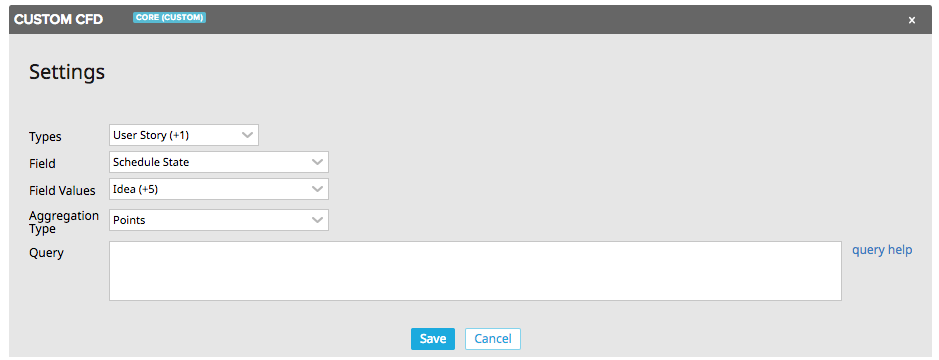
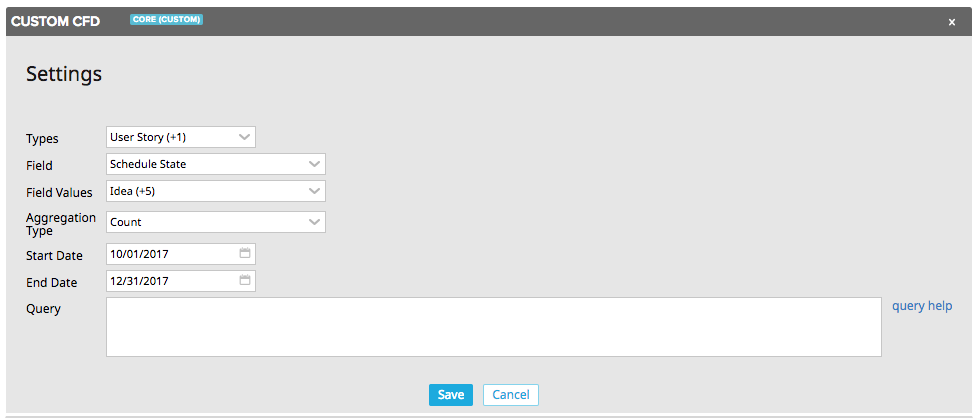
Add start/end date settings

Changed region(s): [[0.0, 0.0, 1.0, 1.0]]

diff --git a/deploy/App-external.html b/deploy/App-external.html
@@ -7,10 +7,10 @@
 
     <script type="text/javascript">
         Rally.onReady(function () {
-                Ext.define("Settings",{singleton:!0,getSettingsFields:function(context){return[{name:"types",xtype:"rallycombobox",plugins:["rallyfieldvalidationui"],allowBlank:!1,editable:!1,autoSelect:!1,validateOnChange:!0,validateOnBlur:!0,multiSelect:!0,shouldRespondToScopeChange:!0,context:context,storeConfig:{model:"TypeDefinition",sorters:[{property:"DisplayName"}],fetch:["DisplayName","TypePath"],filters:[{property:"UserListable",operator:"=",value:!0},{property:"Creatable",operator:"=",value:!0}],autoLoad:!1,remoteSort:!1,sortOnLoad:!0,remoteFilter:!0},displayField:"DisplayName",valueField:"TypePath",listeners:{change:function(combo){combo.fireEvent("typeselected",combo.getValue(),combo.context)},ready:function(combo){combo.store.filterBy(function(record){return Rally.data.ModelTypes.isArtifact(record.get("TypePath"))}),!combo.getValue().length&&combo.originalValue&&(combo.setValue(combo.originalValue.split(",")),delete combo.originalValue)}},bubbleEvents:["typeselected"],readyEvent:"ready",handlesEvents:{projectscopechanged:function(context){this.refreshWithNewContext(context)}}},{name:"aggregationField",xtype:"rallycombobox",plugins:["rallyfieldvalidationui"],fieldLabel:"Field",readyEvent:"ready",allowBlank:!1,validateOnChange:!0,validateOnBlur:!0,width:300,bubbleEvents:["fieldselected"],displayField:"displayName",valueField:"name",store:{fields:["displayName","name"],data:[]},handlesEvents:{typeselected:function(types,context){types.length?Rally.data.wsapi.ModelFactory.getModels({types:types,context:context.getDataContext(),success:function(models){var allModels=_.values(models),model=allModels[0],fields=model.getFields(),validFields=_.filter(fields,function(field){var hasAllowedValues=field.hasAllowedValues(),existsOnAllTypes=1===types.length||_.every(allModels,function(model){return model.hasField(field.name)}),isSupportedType=!field.isObject()&&!field.isCollection(),isWritable=!field.readOnly,isVisible=!field.hidden;return hasAllowedValues&&existsOnAllTypes&&isSupportedType&&isWritable&&isVisible});this.store.loadRawData(validFields),this.fireEvent("ready",this)},scope:this}):(this.store.removeAll(),this.reset())}},listeners:{ready:function(combo){var values=combo.getStore().getRange();values.length&&!combo.getValue()&&(combo.setValue(combo.originalValue||values[0].name),delete combo.originalValue)},change:function(combo){combo.fireEvent("fieldselected",combo.getRecord())}}},{name:"aggregationFieldValues",xtype:"rallycombobox",multiSelect:!0,plugins:["rallyfieldvalidationui"],fieldLabel:"Field Values",readyEvent:"ready",allowBlank:!1,validateOnChange:!0,validateOnBlur:!0,width:300,displayField:"StringValue",valueField:"StringValue",store:{fields:["StringValue"],data:[]},handlesEvents:{fieldselected:function(field){field?field.raw.getAllowedValueStore().load().then({success:function(values){var validValues=_.filter(values,function(value){return value.get("StringValue")});this.setValue([]),this.store.loadRawData(_.pluck(validValues,"raw")),this.fireEvent("ready",this)},scope:this}):(this.store.removeAll(),this.reset())}},listeners:{ready:function(combo){combo.getStore().getRange().length&&!combo.getValue().length&&combo.originalValue&&(combo.setValue(combo.originalValue.split(",")),delete combo.originalValue)}}},{name:"aggregationType",xtype:"rallycombobox",plugins:["rallyfieldvalidationui"],fieldLabel:"Aggregation Type",displayField:"name",valueField:"value",editable:!1,allowBlank:!1,width:300,store:{fields:["name","value"],data:[{name:"Count",value:"count"},{name:"Points",value:"points"}]},lastQuery:""},{type:"query"}]}});
+                Ext.define("Settings",{singleton:!0,getSettingsFields:function(context){return[{name:"types",xtype:"rallycombobox",plugins:["rallyfieldvalidationui"],allowBlank:!1,editable:!1,autoSelect:!1,validateOnChange:!0,validateOnBlur:!0,multiSelect:!0,shouldRespondToScopeChange:!0,context:context,storeConfig:{model:"TypeDefinition",sorters:[{property:"DisplayName"}],fetch:["DisplayName","TypePath"],filters:[{property:"UserListable",operator:"=",value:!0},{property:"Creatable",operator:"=",value:!0}],autoLoad:!1,remoteSort:!1,sortOnLoad:!0,remoteFilter:!0},displayField:"DisplayName",valueField:"TypePath",listeners:{change:function(combo){combo.fireEvent("typeselected",combo.getValue(),combo.context)},ready:function(combo){combo.store.filterBy(function(record){return Rally.data.ModelTypes.isArtifact(record.get("TypePath"))}),!combo.getValue().length&&combo.originalValue&&(combo.setValue(combo.originalValue.split(",")),delete combo.originalValue)}},bubbleEvents:["typeselected"],readyEvent:"ready",handlesEvents:{projectscopechanged:function(context){this.refreshWithNewContext(context)}}},{name:"aggregationField",xtype:"rallycombobox",plugins:["rallyfieldvalidationui"],fieldLabel:"Field",readyEvent:"ready",allowBlank:!1,validateOnChange:!0,validateOnBlur:!0,width:300,bubbleEvents:["fieldselected"],displayField:"displayName",valueField:"name",store:{fields:["displayName","name"],data:[]},handlesEvents:{typeselected:function(types,context){types.length?Rally.data.wsapi.ModelFactory.getModels({types:types,context:context.getDataContext(),success:function(models){var allModels=_.values(models),model=allModels[0],fields=model.getFields(),validFields=_.filter(fields,function(field){var hasAllowedValues=field.hasAllowedValues(),existsOnAllTypes=1===types.length||_.every(allModels,function(model){return model.hasField(field.name)}),isSupportedType=!field.isObject()&&!field.isCollection(),isWritable=!field.readOnly,isVisible=!field.hidden;return hasAllowedValues&&existsOnAllTypes&&isSupportedType&&isWritable&&isVisible});this.store.loadRawData(validFields),this.fireEvent("ready",this)},scope:this}):(this.store.removeAll(),this.reset())}},listeners:{ready:function(combo){var values=combo.getStore().getRange();values.length&&!combo.getValue()&&(combo.setValue(combo.originalValue||values[0].name),delete combo.originalValue)},change:function(combo){combo.fireEvent("fieldselected",combo.getRecord())}}},{name:"aggregationFieldValues",xtype:"rallycombobox",multiSelect:!0,plugins:["rallyfieldvalidationui"],fieldLabel:"Field Values",readyEvent:"ready",allowBlank:!1,validateOnChange:!0,validateOnBlur:!0,width:300,displayField:"StringValue",valueField:"StringValue",store:{fields:["StringValue"],data:[]},handlesEvents:{fieldselected:function(field){field?field.raw.getAllowedValueStore().load().then({success:function(values){var validValues=_.filter(values,function(value){return value.get("StringValue")});this.setValue([]),this.store.loadRawData(_.pluck(validValues,"raw")),this.fireEvent("ready",this)},scope:this}):(this.store.removeAll(),this.reset())}},listeners:{ready:function(combo){combo.getStore().getRange().length&&!combo.getValue().length&&combo.originalValue&&(combo.setValue(combo.originalValue.split(",")),delete combo.originalValue)}}},{name:"aggregationType",xtype:"rallycombobox",plugins:["rallyfieldvalidationui"],fieldLabel:"Aggregation Type",displayField:"name",valueField:"value",editable:!1,allowBlank:!1,width:300,store:{fields:["name","value"],data:[{name:"Count",value:"count"},{name:"Points",value:"points"}]},lastQuery:""},{name:"startDate",xtype:"rallydatefield",plugins:["rallyfieldvalidationui"],allowBlank:!1,fieldLabel:"Start Date",getSubmitValue:function(){var value=Rally.util.DateTime.toIsoString(this.getValue());return value.split("T")[0]}},{name:"endDate",xtype:"rallydatefield",plugins:["rallyfieldvalidationui"],allowBlank:!1,fieldLabel:"End Date",getSubmitValue:function(){var value=Rally.util.DateTime.toIsoString(this.getValue());return value.split("T")[0]}},{type:"query"}]}});
                 Ext.define("CfdCalculator",{extend:"Rally.data.lookback.calculator.TimeSeriesCalculator",config:{stateFieldValues:[],stateFieldName:"",pointsOrCount:"points"},constructor:function(config){config=config||{},this.mergeConfig(config),this.callParent([this.config])},getMetrics:function(){return _.map(this.stateFieldValues,function(stateFieldValue){return{field:"PlanEstimate",as:stateFieldValue,f:"points"===this.pointsOrCount?"filteredSum":"filteredCount",filterField:this.stateFieldName,filterValues:[stateFieldValue],display:"area"}},this)}});
                 Ext.define("CfdChart",{xtype:"cfdchart",extend:"Rally.ui.chart.Chart",requires:["CfdCalculator"],config:{calculatorType:"CfdCalculator",chartColors:["#FF8200","#F6A900","#FAD200","#8DC63F","#1E7C00","#337EC6","#005EB8","#7832A5","#DA1884","#C0C0C0"],chartConfig:{chart:{type:"area"},title:{text:""},subtitle:{text:""},xAxis:{tickmarkPlacement:"on",tickInterval:15,title:{text:"Date"}},yAxis:[{title:{text:""}}],plotOptions:{series:{marker:{enabled:!1}},area:{stacking:"normal"}}}},constructor:function(config){config=config||{},this.mergeConfig(config),this.chartConfig.yAxis[0].title.text="points"===this.pointsOrCount?this.getContext().getWorkspace().WorkspaceConfiguration.ReleaseEstimateUnitName||"Points":"Count",this.callParent([this.config])}});
-                Ext.define("CustomCfdApp",{extend:"Rally.app.App",componentCls:"app",layout:{type:"vbox",align:"stretch"},items:[{xtype:"rallyleftright",itemId:"header",height:30},{xtype:"container",itemId:"filterContainer"},{xtype:"container",itemId:"chartContainer",layout:"fit",flex:1}],config:{defaultSettings:{types:"HierarchicalRequirement,Defect",aggregationField:"ScheduleState",aggregationFieldValues:"Idea,Defined,In-Progress,Completed,Accepted,Released",aggregationType:"points",query:""}},getSettingsFields:function(){return Settings.getSettingsFields(this.getContext())},launch:function(){Rally.data.wsapi.ModelFactory.getModels({types:this._getTypesSetting(),context:this.getContext().getDataContext()}).then({success:this._onModelsLoaded,scope:this})},_onModelsLoaded:function(models){this.models=_.values(models);var blackListFields=[],whiteListFields=["Milestones","Tags"],modelNames=this._getTypesSetting();this.down("#header").getLeft().add({xtype:"rallyinlinefiltercontrol",context:this.getContext(),height:26,align:"left",inlineFilterButtonConfig:{stateful:!0,stateId:this.getContext().getScopedStateId("inline-filter"),context:this.getContext(),modelNames:modelNames,filterChildren:!1,inlineFilterPanelConfig:{quickFilterPanelConfig:{defaultFields:["ModelType","ArtifactSearch"],addQuickFilterConfig:{blackListFields:blackListFields,whiteListFields:whiteListFields}},advancedFilterPanelConfig:{advancedFilterRowsConfig:{propertyFieldConfig:{blackListFields:blackListFields,whiteListFields:whiteListFields}}}},listeners:{inlinefilterchange:this._onFilterChange,inlinefilterready:this._onFilterReady,scope:this}}}),this.down("#header").getRight().add({xtype:"rallybutton",cls:"secondary rly-small",margin:"3px 20px 0 0",frame:!1,iconCls:"icon-export",toolTipConfig:{html:"Export",anchor:"top",hideDelay:0},listeners:{click:this._onExportClick,scope:this}})},_onFilterReady:function(inlineFilterPanel){this.down("#filterContainer").add(inlineFilterPanel)},_onFilterChange:function(inlineFilterButton){this.filterInfo=inlineFilterButton.getTypesAndFilters(),this._loadData()},_loadData:function(){this.down("#chartContainer").removeAll(!0),this.down("#chartContainer").setLoading(!0),Ext.create("Rally.data.wsapi.artifact.Store",{autoLoad:!0,context:this.getContext().getDataContext(),limit:1/0,pageSize:2e3,models:this.filterInfo.types,filters:this.filterInfo.filters.concat(this._getFilters()),fetch:["ObjectID"],listeners:{load:this._onWsapiDataRetrieved,scope:this}})},_onWsapiDataRetrieved:function(store){var oids=_.map(store.getRange(),function(record){return record.getId()});this._addChart(oids)},_onExportClick:function(){var link=document.createElement("a"),chartData=this.down("rallychart").chartData,data=_.reduce(chartData.categories,function(accum,category,i){var row=[category];return _.each(chartData.series,function(series){row.push(series.data[i])}),accum.push(row.join(",")),accum},[["Date"].concat(_.pluck(chartData.series,"name")).join(",")]);link.setAttribute("href","data:text/csv;charset=utf-8,"+encodeURI(data.join("\n"))),link.setAttribute("download","cfd.csv"),link.click()},_addChart:function(oids){this.down("#chartContainer").add({xtype:"cfdchart",loadMask:!1,pointsOrCount:this.getSetting("aggregationType"),storeType:"Rally.data.lookback.SnapshotStore",context:this.getContext(),storeConfig:{find:{_TypeHierarchy:{$in:this._getTypesSetting()},ObjectID:{$in:oids},Children:null},fetch:["_ValidFrom","_ValidTo",this.getSetting("aggregationField"),"PlanEstimate"],hydrate:[this.getSetting("aggregationField")],compress:!0,useHttpPost:!0,listeners:{load:function(){this.down("#chartContainer").setLoading(!1)},scope:this}},calculatorConfig:{stateFieldName:this.getSetting("aggregationField"),stateFieldValues:this.getSetting("aggregationFieldValues").split(","),pointsOrCount:this.getSetting("aggregationType")}})},_getTypesSetting:function(){return this.getSetting("types").split(",")},onTimeboxScopeChange:function(){this.callParent(arguments),this._loadData(this.down("#filterButton").getTypesAndFilters())},_getFilters:function(){var queries=[],timeboxScope=this.getContext().getTimeboxScope();return this.getSetting("query")&&queries.push(Rally.data.QueryFilter.fromQueryString(this.getSetting("query"))),timeboxScope&&_.every(this.models,timeboxScope.isApplicable,timeboxScope)&&queries.push(timeboxScope.getQueryFilter()),queries}});
+                Ext.define("CustomCfdApp",{extend:"Rally.app.App",componentCls:"app",layout:{type:"vbox",align:"stretch"},items:[{xtype:"rallyleftright",itemId:"header",height:30},{xtype:"container",itemId:"filterContainer"},{xtype:"container",itemId:"chartContainer",layout:"fit",flex:1}],config:{defaultSettings:{types:"HierarchicalRequirement,Defect",aggregationField:"ScheduleState",aggregationFieldValues:"Idea,Defined,In-Progress,Completed,Accepted,Released",aggregationType:"points",startDate:"",endDate:"",query:""}},getSettingsFields:function(){return Settings.getSettingsFields(this.getContext())},launch:function(){Rally.data.wsapi.ModelFactory.getModels({types:this._getTypesSetting(),context:this.getContext().getDataContext()}).then({success:this._onModelsLoaded,scope:this})},_onModelsLoaded:function(models){this.models=_.values(models);var blackListFields=[],whiteListFields=["Milestones","Tags"],modelNames=this._getTypesSetting();this.down("#header").getLeft().add({xtype:"rallyinlinefiltercontrol",context:this.getContext(),height:26,align:"left",inlineFilterButtonConfig:{stateful:!0,stateId:this.getContext().getScopedStateId("inline-filter"),context:this.getContext(),modelNames:modelNames,filterChildren:!1,inlineFilterPanelConfig:{quickFilterPanelConfig:{defaultFields:["ModelType","ArtifactSearch"],addQuickFilterConfig:{blackListFields:blackListFields,whiteListFields:whiteListFields}},advancedFilterPanelConfig:{advancedFilterRowsConfig:{propertyFieldConfig:{blackListFields:blackListFields,whiteListFields:whiteListFields}}}},listeners:{inlinefilterchange:this._onFilterChange,inlinefilterready:this._onFilterReady,scope:this}}}),this.down("#header").getRight().add({xtype:"rallybutton",cls:"secondary rly-small",margin:"3px 20px 0 0",frame:!1,iconCls:"icon-export",toolTipConfig:{html:"Export",anchor:"top",hideDelay:0},listeners:{click:this._onExportClick,scope:this}})},_onFilterReady:function(inlineFilterPanel){this.down("#filterContainer").add(inlineFilterPanel)},_onFilterChange:function(inlineFilterButton){this.filterInfo=inlineFilterButton.getTypesAndFilters(),this._loadData()},_loadData:function(){this.down("#chartContainer").removeAll(!0),this.down("#chartContainer").setLoading(!0),Ext.create("Rally.data.wsapi.artifact.Store",{autoLoad:!0,context:this.getContext().getDataContext(),limit:1/0,pageSize:2e3,models:this.filterInfo.types,filters:this.filterInfo.filters.concat(this._getFilters()),fetch:["ObjectID"],listeners:{load:this._onWsapiDataRetrieved,scope:this}})},_onWsapiDataRetrieved:function(store){var oids=_.map(store.getRange(),function(record){return record.getId()});this._addChart(oids)},_onExportClick:function(){var link=document.createElement("a"),chartData=this.down("rallychart").chartData,data=_.reduce(chartData.categories,function(accum,category,i){var row=[category];return _.each(chartData.series,function(series){row.push(series.data[i])}),accum.push(row.join(",")),accum},[["Date"].concat(_.pluck(chartData.series,"name")).join(",")]);link.setAttribute("href","data:text/csv;charset=utf-8,"+encodeURI(data.join("\n"))),link.setAttribute("download","cfd.csv"),link.click()},_addChart:function(oids){var startDate=this.getSetting("startDate"),endDate=this.getSetting("endDate");this.down("#chartContainer").add({xtype:"cfdchart",loadMask:!1,pointsOrCount:this.getSetting("aggregationType"),storeType:"Rally.data.lookback.SnapshotStore",context:this.getContext(),storeConfig:{find:{_TypeHierarchy:{$in:this._getTypesSetting()},ObjectID:{$in:oids},Children:null},fetch:["_ValidFrom","_ValidTo",this.getSetting("aggregationField"),"PlanEstimate"],hydrate:[this.getSetting("aggregationField")],compress:!0,useHttpPost:!0,listeners:{load:function(){this.down("#chartContainer").setLoading(!1)},scope:this}},calculatorConfig:{stateFieldName:this.getSetting("aggregationField"),stateFieldValues:this.getSetting("aggregationFieldValues").split(","),pointsOrCount:this.getSetting("aggregationType"),startDate:moment(startDate||new Date).toDate(),endDate:moment(endDate||new Date).toDate()}})},_getTypesSetting:function(){return this.getSetting("types").split(",")},onTimeboxScopeChange:function(){this.callParent(arguments),this._loadData(this.down("#filterButton").getTypesAndFilters())},_getFilters:function(){var queries=[],timeboxScope=this.getContext().getTimeboxScope();return this.getSetting("query")&&queries.push(Rally.data.QueryFilter.fromQueryString(this.getSetting("query"))),timeboxScope&&_.every(this.models,timeboxScope.isApplicable,timeboxScope)&&queries.push(timeboxScope.getQueryFilter()),queries}});
 
             Rally.launchApp('CustomCfdApp', {
                 name:"CustomCfd",

diff --git a/deploy/App.html b/deploy/App.html
@@ -7,10 +7,10 @@
 
     <script type="text/javascript">
         Rally.onReady(function () {
-                Ext.define("Settings",{singleton:!0,getSettingsFields:function(context){return[{name:"types",xtype:"rallycombobox",plugins:["rallyfieldvalidationui"],allowBlank:!1,editable:!1,autoSelect:!1,validateOnChange:!0,validateOnBlur:!0,multiSelect:!0,shouldRespondToScopeChange:!0,context:context,storeConfig:{model:"TypeDefinition",sorters:[{property:"DisplayName"}],fetch:["DisplayName","TypePath"],filters:[{property:"UserListable",operator:"=",value:!0},{property:"Creatable",operator:"=",value:!0}],autoLoad:!1,remoteSort:!1,sortOnLoad:!0,remoteFilter:!0},displayField:"DisplayName",valueField:"TypePath",listeners:{change:function(combo){combo.fireEvent("typeselected",combo.getValue(),combo.context)},ready:function(combo){combo.store.filterBy(function(record){return Rally.data.ModelTypes.isArtifact(record.get("TypePath"))}),!combo.getValue().length&&combo.originalValue&&(combo.setValue(combo.originalValue.split(",")),delete combo.originalValue)}},bubbleEvents:["typeselected"],readyEvent:"ready",handlesEvents:{projectscopechanged:function(context){this.refreshWithNewContext(context)}}},{name:"aggregationField",xtype:"rallycombobox",plugins:["rallyfieldvalidationui"],fieldLabel:"Field",readyEvent:"ready",allowBlank:!1,validateOnChange:!0,validateOnBlur:!0,width:300,bubbleEvents:["fieldselected"],displayField:"displayName",valueField:"name",store:{fields:["displayName","name"],data:[]},handlesEvents:{typeselected:function(types,context){types.length?Rally.data.wsapi.ModelFactory.getModels({types:types,context:context.getDataContext(),success:function(models){var allModels=_.values(models),model=allModels[0],fields=model.getFields(),validFields=_.filter(fields,function(field){var hasAllowedValues=field.hasAllowedValues(),existsOnAllTypes=1===types.length||_.every(allModels,function(model){return model.hasField(field.name)}),isSupportedType=!field.isObject()&&!field.isCollection(),isWritable=!field.readOnly,isVisible=!field.hidden;return hasAllowedValues&&existsOnAllTypes&&isSupportedType&&isWritable&&isVisible});this.store.loadRawData(validFields),this.fireEvent("ready",this)},scope:this}):(this.store.removeAll(),this.reset())}},listeners:{ready:function(combo){var values=combo.getStore().getRange();values.length&&!combo.getValue()&&(combo.setValue(combo.originalValue||values[0].name),delete combo.originalValue)},change:function(combo){combo.fireEvent("fieldselected",combo.getRecord())}}},{name:"aggregationFieldValues",xtype:"rallycombobox",multiSelect:!0,plugins:["rallyfieldvalidationui"],fieldLabel:"Field Values",readyEvent:"ready",allowBlank:!1,validateOnChange:!0,validateOnBlur:!0,width:300,displayField:"StringValue",valueField:"StringValue",store:{fields:["StringValue"],data:[]},handlesEvents:{fieldselected:function(field){field?field.raw.getAllowedValueStore().load().then({success:function(values){var validValues=_.filter(values,function(value){return value.get("StringValue")});this.setValue([]),this.store.loadRawData(_.pluck(validValues,"raw")),this.fireEvent("ready",this)},scope:this}):(this.store.removeAll(),this.reset())}},listeners:{ready:function(combo){combo.getStore().getRange().length&&!combo.getValue().length&&combo.originalValue&&(combo.setValue(combo.originalValue.split(",")),delete combo.originalValue)}}},{name:"aggregationType",xtype:"rallycombobox",plugins:["rallyfieldvalidationui"],fieldLabel:"Aggregation Type",displayField:"name",valueField:"value",editable:!1,allowBlank:!1,width:300,store:{fields:["name","value"],data:[{name:"Count",value:"count"},{name:"Points",value:"points"}]},lastQuery:""},{type:"query"}]}});
+                Ext.define("Settings",{singleton:!0,getSettingsFields:function(context){return[{name:"types",xtype:"rallycombobox",plugins:["rallyfieldvalidationui"],allowBlank:!1,editable:!1,autoSelect:!1,validateOnChange:!0,validateOnBlur:!0,multiSelect:!0,shouldRespondToScopeChange:!0,context:context,storeConfig:{model:"TypeDefinition",sorters:[{property:"DisplayName"}],fetch:["DisplayName","TypePath"],filters:[{property:"UserListable",operator:"=",value:!0},{property:"Creatable",operator:"=",value:!0}],autoLoad:!1,remoteSort:!1,sortOnLoad:!0,remoteFilter:!0},displayField:"DisplayName",valueField:"TypePath",listeners:{change:function(combo){combo.fireEvent("typeselected",combo.getValue(),combo.context)},ready:function(combo){combo.store.filterBy(function(record){return Rally.data.ModelTypes.isArtifact(record.get("TypePath"))}),!combo.getValue().length&&combo.originalValue&&(combo.setValue(combo.originalValue.split(",")),delete combo.originalValue)}},bubbleEvents:["typeselected"],readyEvent:"ready",handlesEvents:{projectscopechanged:function(context){this.refreshWithNewContext(context)}}},{name:"aggregationField",xtype:"rallycombobox",plugins:["rallyfieldvalidationui"],fieldLabel:"Field",readyEvent:"ready",allowBlank:!1,validateOnChange:!0,validateOnBlur:!0,width:300,bubbleEvents:["fieldselected"],displayField:"displayName",valueField:"name",store:{fields:["displayName","name"],data:[]},handlesEvents:{typeselected:function(types,context){types.length?Rally.data.wsapi.ModelFactory.getModels({types:types,context:context.getDataContext(),success:function(models){var allModels=_.values(models),model=allModels[0],fields=model.getFields(),validFields=_.filter(fields,function(field){var hasAllowedValues=field.hasAllowedValues(),existsOnAllTypes=1===types.length||_.every(allModels,function(model){return model.hasField(field.name)}),isSupportedType=!field.isObject()&&!field.isCollection(),isWritable=!field.readOnly,isVisible=!field.hidden;return hasAllowedValues&&existsOnAllTypes&&isSupportedType&&isWritable&&isVisible});this.store.loadRawData(validFields),this.fireEvent("ready",this)},scope:this}):(this.store.removeAll(),this.reset())}},listeners:{ready:function(combo){var values=combo.getStore().getRange();values.length&&!combo.getValue()&&(combo.setValue(combo.originalValue||values[0].name),delete combo.originalValue)},change:function(combo){combo.fireEvent("fieldselected",combo.getRecord())}}},{name:"aggregationFieldValues",xtype:"rallycombobox",multiSelect:!0,plugins:["rallyfieldvalidationui"],fieldLabel:"Field Values",readyEvent:"ready",allowBlank:!1,validateOnChange:!0,validateOnBlur:!0,width:300,displayField:"StringValue",valueField:"StringValue",store:{fields:["StringValue"],data:[]},handlesEvents:{fieldselected:function(field){field?field.raw.getAllowedValueStore().load().then({success:function(values){var validValues=_.filter(values,function(value){return value.get("StringValue")});this.setValue([]),this.store.loadRawData(_.pluck(validValues,"raw")),this.fireEvent("ready",this)},scope:this}):(this.store.removeAll(),this.reset())}},listeners:{ready:function(combo){combo.getStore().getRange().length&&!combo.getValue().length&&combo.originalValue&&(combo.setValue(combo.originalValue.split(",")),delete combo.originalValue)}}},{name:"aggregationType",xtype:"rallycombobox",plugins:["rallyfieldvalidationui"],fieldLabel:"Aggregation Type",displayField:"name",valueField:"value",editable:!1,allowBlank:!1,width:300,store:{fields:["name","value"],data:[{name:"Count",value:"count"},{name:"Points",value:"points"}]},lastQuery:""},{name:"startDate",xtype:"rallydatefield",plugins:["rallyfieldvalidationui"],allowBlank:!1,fieldLabel:"Start Date",getSubmitValue:function(){var value=Rally.util.DateTime.toIsoString(this.getValue());return value.split("T")[0]}},{name:"endDate",xtype:"rallydatefield",plugins:["rallyfieldvalidationui"],allowBlank:!1,fieldLabel:"End Date",getSubmitValue:function(){var value=Rally.util.DateTime.toIsoString(this.getValue());return value.split("T")[0]}},{type:"query"}]}});
                 Ext.define("CfdCalculator",{extend:"Rally.data.lookback.calculator.TimeSeriesCalculator",config:{stateFieldValues:[],stateFieldName:"",pointsOrCount:"points"},constructor:function(config){config=config||{},this.mergeConfig(config),this.callParent([this.config])},getMetrics:function(){return _.map(this.stateFieldValues,function(stateFieldValue){return{field:"PlanEstimate",as:stateFieldValue,f:"points"===this.pointsOrCount?"filteredSum":"filteredCount",filterField:this.stateFieldName,filterValues:[stateFieldValue],display:"area"}},this)}});
                 Ext.define("CfdChart",{xtype:"cfdchart",extend:"Rally.ui.chart.Chart",requires:["CfdCalculator"],config:{calculatorType:"CfdCalculator",chartColors:["#FF8200","#F6A900","#FAD200","#8DC63F","#1E7C00","#337EC6","#005EB8","#7832A5","#DA1884","#C0C0C0"],chartConfig:{chart:{type:"area"},title:{text:""},subtitle:{text:""},xAxis:{tickmarkPlacement:"on",tickInterval:15,title:{text:"Date"}},yAxis:[{title:{text:""}}],plotOptions:{series:{marker:{enabled:!1}},area:{stacking:"normal"}}}},constructor:function(config){config=config||{},this.mergeConfig(config),this.chartConfig.yAxis[0].title.text="points"===this.pointsOrCount?this.getContext().getWorkspace().WorkspaceConfiguration.ReleaseEstimateUnitName||"Points":"Count",this.callParent([this.config])}});
-                Ext.define("CustomCfdApp",{extend:"Rally.app.App",componentCls:"app",layout:{type:"vbox",align:"stretch"},items:[{xtype:"rallyleftright",itemId:"header",height:30},{xtype:"container",itemId:"filterContainer"},{xtype:"container",itemId:"chartContainer",layout:"fit",flex:1}],config:{defaultSettings:{types:"HierarchicalRequirement,Defect",aggregationField:"ScheduleState",aggregationFieldValues:"Idea,Defined,In-Progress,Completed,Accepted,Released",aggregationType:"points",query:""}},getSettingsFields:function(){return Settings.getSettingsFields(this.getContext())},launch:function(){Rally.data.wsapi.ModelFactory.getModels({types:this._getTypesSetting(),context:this.getContext().getDataContext()}).then({success:this._onModelsLoaded,scope:this})},_onModelsLoaded:function(models){this.models=_.values(models);var blackListFields=[],whiteListFields=["Milestones","Tags"],modelNames=this._getTypesSetting();this.down("#header").getLeft().add({xtype:"rallyinlinefiltercontrol",context:this.getContext(),height:26,align:"left",inlineFilterButtonConfig:{stateful:!0,stateId:this.getContext().getScopedStateId("inline-filter"),context:this.getContext(),modelNames:modelNames,filterChildren:!1,inlineFilterPanelConfig:{quickFilterPanelConfig:{defaultFields:["ModelType","ArtifactSearch"],addQuickFilterConfig:{blackListFields:blackListFields,whiteListFields:whiteListFields}},advancedFilterPanelConfig:{advancedFilterRowsConfig:{propertyFieldConfig:{blackListFields:blackListFields,whiteListFields:whiteListFields}}}},listeners:{inlinefilterchange:this._onFilterChange,inlinefilterready:this._onFilterReady,scope:this}}}),this.down("#header").getRight().add({xtype:"rallybutton",cls:"secondary rly-small",margin:"3px 20px 0 0",frame:!1,iconCls:"icon-export",toolTipConfig:{html:"Export",anchor:"top",hideDelay:0},listeners:{click:this._onExportClick,scope:this}})},_onFilterReady:function(inlineFilterPanel){this.down("#filterContainer").add(inlineFilterPanel)},_onFilterChange:function(inlineFilterButton){this.filterInfo=inlineFilterButton.getTypesAndFilters(),this._loadData()},_loadData:function(){this.down("#chartContainer").removeAll(!0),this.down("#chartContainer").setLoading(!0),Ext.create("Rally.data.wsapi.artifact.Store",{autoLoad:!0,context:this.getContext().getDataContext(),limit:1/0,pageSize:2e3,models:this.filterInfo.types,filters:this.filterInfo.filters.concat(this._getFilters()),fetch:["ObjectID"],listeners:{load:this._onWsapiDataRetrieved,scope:this}})},_onWsapiDataRetrieved:function(store){var oids=_.map(store.getRange(),function(record){return record.getId()});this._addChart(oids)},_onExportClick:function(){var link=document.createElement("a"),chartData=this.down("rallychart").chartData,data=_.reduce(chartData.categories,function(accum,category,i){var row=[category];return _.each(chartData.series,function(series){row.push(series.data[i])}),accum.push(row.join(",")),accum},[["Date"].concat(_.pluck(chartData.series,"name")).join(",")]);link.setAttribute("href","data:text/csv;charset=utf-8,"+encodeURI(data.join("\n"))),link.setAttribute("download","cfd.csv"),link.click()},_addChart:function(oids){this.down("#chartContainer").add({xtype:"cfdchart",loadMask:!1,pointsOrCount:this.getSetting("aggregationType"),storeType:"Rally.data.lookback.SnapshotStore",context:this.getContext(),storeConfig:{find:{_TypeHierarchy:{$in:this._getTypesSetting()},ObjectID:{$in:oids},Children:null},fetch:["_ValidFrom","_ValidTo",this.getSetting("aggregationField"),"PlanEstimate"],hydrate:[this.getSetting("aggregationField")],compress:!0,useHttpPost:!0,listeners:{load:function(){this.down("#chartContainer").setLoading(!1)},scope:this}},calculatorConfig:{stateFieldName:this.getSetting("aggregationField"),stateFieldValues:this.getSetting("aggregationFieldValues").split(","),pointsOrCount:this.getSetting("aggregationType")}})},_getTypesSetting:function(){return this.getSetting("types").split(",")},onTimeboxScopeChange:function(){this.callParent(arguments),this._loadData(this.down("#filterButton").getTypesAndFilters())},_getFilters:function(){var queries=[],timeboxScope=this.getContext().getTimeboxScope();return this.getSetting("query")&&queries.push(Rally.data.QueryFilter.fromQueryString(this.getSetting("query"))),timeboxScope&&_.every(this.models,timeboxScope.isApplicable,timeboxScope)&&queries.push(timeboxScope.getQueryFilter()),queries}});
+                Ext.define("CustomCfdApp",{extend:"Rally.app.App",componentCls:"app",layout:{type:"vbox",align:"stretch"},items:[{xtype:"rallyleftright",itemId:"header",height:30},{xtype:"container",itemId:"filterContainer"},{xtype:"container",itemId:"chartContainer",layout:"fit",flex:1}],config:{defaultSettings:{types:"HierarchicalRequirement,Defect",aggregationField:"ScheduleState",aggregationFieldValues:"Idea,Defined,In-Progress,Completed,Accepted,Released",aggregationType:"points",startDate:"",endDate:"",query:""}},getSettingsFields:function(){return Settings.getSettingsFields(this.getContext())},launch:function(){Rally.data.wsapi.ModelFactory.getModels({types:this._getTypesSetting(),context:this.getContext().getDataContext()}).then({success:this._onModelsLoaded,scope:this})},_onModelsLoaded:function(models){this.models=_.values(models);var blackListFields=[],whiteListFields=["Milestones","Tags"],modelNames=this._getTypesSetting();this.down("#header").getLeft().add({xtype:"rallyinlinefiltercontrol",context:this.getContext(),height:26,align:"left",inlineFilterButtonConfig:{stateful:!0,stateId:this.getContext().getScopedStateId("inline-filter"),context:this.getContext(),modelNames:modelNames,filterChildren:!1,inlineFilterPanelConfig:{quickFilterPanelConfig:{defaultFields:["ModelType","ArtifactSearch"],addQuickFilterConfig:{blackListFields:blackListFields,whiteListFields:whiteListFields}},advancedFilterPanelConfig:{advancedFilterRowsConfig:{propertyFieldConfig:{blackListFields:blackListFields,whiteListFields:whiteListFields}}}},listeners:{inlinefilterchange:this._onFilterChange,inlinefilterready:this._onFilterReady,scope:this}}}),this.down("#header").getRight().add({xtype:"rallybutton",cls:"secondary rly-small",margin:"3px 20px 0 0",frame:!1,iconCls:"icon-export",toolTipConfig:{html:"Export",anchor:"top",hideDelay:0},listeners:{click:this._onExportClick,scope:this}})},_onFilterReady:function(inlineFilterPanel){this.down("#filterContainer").add(inlineFilterPanel)},_onFilterChange:function(inlineFilterButton){this.filterInfo=inlineFilterButton.getTypesAndFilters(),this._loadData()},_loadData:function(){this.down("#chartContainer").removeAll(!0),this.down("#chartContainer").setLoading(!0),Ext.create("Rally.data.wsapi.artifact.Store",{autoLoad:!0,context:this.getContext().getDataContext(),limit:1/0,pageSize:2e3,models:this.filterInfo.types,filters:this.filterInfo.filters.concat(this._getFilters()),fetch:["ObjectID"],listeners:{load:this._onWsapiDataRetrieved,scope:this}})},_onWsapiDataRetrieved:function(store){var oids=_.map(store.getRange(),function(record){return record.getId()});this._addChart(oids)},_onExportClick:function(){var link=document.createElement("a"),chartData=this.down("rallychart").chartData,data=_.reduce(chartData.categories,function(accum,category,i){var row=[category];return _.each(chartData.series,function(series){row.push(series.data[i])}),accum.push(row.join(",")),accum},[["Date"].concat(_.pluck(chartData.series,"name")).join(",")]);link.setAttribute("href","data:text/csv;charset=utf-8,"+encodeURI(data.join("\n"))),link.setAttribute("download","cfd.csv"),link.click()},_addChart:function(oids){var startDate=this.getSetting("startDate"),endDate=this.getSetting("endDate");this.down("#chartContainer").add({xtype:"cfdchart",loadMask:!1,pointsOrCount:this.getSetting("aggregationType"),storeType:"Rally.data.lookback.SnapshotStore",context:this.getContext(),storeConfig:{find:{_TypeHierarchy:{$in:this._getTypesSetting()},ObjectID:{$in:oids},Children:null},fetch:["_ValidFrom","_ValidTo",this.getSetting("aggregationField"),"PlanEstimate"],hydrate:[this.getSetting("aggregationField")],compress:!0,useHttpPost:!0,listeners:{load:function(){this.down("#chartContainer").setLoading(!1)},scope:this}},calculatorConfig:{stateFieldName:this.getSetting("aggregationField"),stateFieldValues:this.getSetting("aggregationFieldValues").split(","),pointsOrCount:this.getSetting("aggregationType"),startDate:moment(startDate||new Date).toDate(),endDate:moment(endDate||new Date).toDate()}})},_getTypesSetting:function(){return this.getSetting("types").split(",")},onTimeboxScopeChange:function(){this.callParent(arguments),this._loadData(this.down("#filterButton").getTypesAndFilters())},_getFilters:function(){var queries=[],timeboxScope=this.getContext().getTimeboxScope();return this.getSetting("query")&&queries.push(Rally.data.QueryFilter.fromQueryString(this.getSetting("query"))),timeboxScope&&_.every(this.models,timeboxScope.isApplicable,timeboxScope)&&queries.push(timeboxScope.getQueryFilter()),queries}});
 
             Rally.launchApp('CustomCfdApp', {
                 name:"CustomCfd",

diff --git a/deploy/App-uncompressed.html b/deploy/App-uncompressed.html
@@ -189,6 +189,28 @@
                 },
                 lastQuery: ''
             },
+            {
+                name: 'startDate',
+                xtype: 'rallydatefield',
+                plugins: ['rallyfieldvalidationui'],
+                allowBlank: false,
+                fieldLabel: 'Start Date',
+                getSubmitValue: function() {
+                    var value = Rally.util.DateTime.toIsoString(this.getValue());
+                    return value.split('T')[0];
+                }
+            },
+            {
+                name: 'endDate',
+                xtype: 'rallydatefield',
+                plugins: ['rallyfieldvalidationui'],
+                allowBlank: false,
+                fieldLabel: 'End Date',
+                getSubmitValue: function() {
+                    var value = Rally.util.DateTime.toIsoString(this.getValue());
+                    return value.split('T')[0];
+                }
+            },
             { type: 'query' }
         ];
     }
@@ -326,6 +348,8 @@
             aggregationField: 'ScheduleState',
             aggregationFieldValues: 'Idea,Defined,In-Progress,Completed,Accepted,Released',
             aggregationType: 'points',
+            startDate: '',
+            endDate: '',
             query: ''
         }
     },
@@ -456,6 +480,9 @@
     },
 
     _addChart: function (oids) {
+        var startDate = this.getSetting('startDate'),
+            endDate = this.getSetting('endDate');
+            
         this.down('#chartContainer').add({
             xtype: 'cfdchart',
             loadMask: false,
@@ -482,7 +509,9 @@
             calculatorConfig: {
                 stateFieldName: this.getSetting('aggregationField'),
                 stateFieldValues: this.getSetting('aggregationFieldValues').split(','),
-                pointsOrCount: this.getSetting('aggregationType')
+                pointsOrCount: this.getSetting('aggregationType'),
+                startDate: moment(startDate || new Date()).toDate(),
+                endDate: moment(endDate || new Date()).toDate(),
             }
         });
     },

diff --git a/CustomCfdApp.js b/CustomCfdApp.js
@@ -31,6 +31,8 @@ Ext.define('CustomCfdApp', {
             aggregationField: 'ScheduleState',
             aggregationFieldValues: 'Idea,Defined,In-Progress,Completed,Accepted,Released',
             aggregationType: 'points',
+            startDate: '',
+            endDate: '',
             query: ''
         }
     },
@@ -161,6 +163,9 @@ Ext.define('CustomCfdApp', {
     },
 
     _addChart: function (oids) {
+        var startDate = this.getSetting('startDate'),
+            endDate = this.getSetting('endDate');
+            
         this.down('#chartContainer').add({
             xtype: 'cfdchart',
             loadMask: false,
@@ -187,7 +192,9 @@ Ext.define('CustomCfdApp', {
             calculatorConfig: {
                 stateFieldName: this.getSetting('aggregationField'),
                 stateFieldValues: this.getSetting('aggregationFieldValues').split(','),
-                pointsOrCount: this.getSetting('aggregationType')
+                pointsOrCount: this.getSetting('aggregationType'),
+                startDate: moment(startDate || new Date()).toDate(),
+                endDate: moment(endDate || new Date()).toDate(),
             }
         });
     },

diff --git a/Settings.js b/Settings.js
@@ -180,6 +180,28 @@ Ext.define('Settings', {
                 },
                 lastQuery: ''
             },
+            {
+                name: 'startDate',
+                xtype: 'rallydatefield',
+                plugins: ['rallyfieldvalidationui'],
+                allowBlank: false,
+                fieldLabel: 'Start Date',
+                getSubmitValue: function() {
+                    var value = Rally.util.DateTime.toIsoString(this.getValue());
+                    return value.split('T')[0];
+                }
+            },
+            {
+                name: 'endDate',
+                xtype: 'rallydatefield',
+                plugins: ['rallyfieldvalidationui'],
+                allowBlank: false,
+                fieldLabel: 'End Date',
+                getSubmitValue: function() {
+                    var value = Rally.util.DateTime.toIsoString(this.getValue());
+                    return value.split('T')[0];
+                }
+            },
             { type: 'query' }
         ];
     }

diff --git a/README.md b/README.md
@@ -24,5 +24,11 @@ Pick the values of the field chosen above to include in the chart.  This is espe
 #### Aggregation Type
 Pick how the data should be aggregated- via a simple count or by summing the plan estimates.
 
+#### Start Date
+The date at which the chart should begin.
+
+#### End Date
+The date at which the chart should end.
+
 #### Query
 In addition to the advanced filtering component in the app, you can write your own complex filter queries. [Extensive documentation](https://help.rallydev.com/grid-queries?basehost=https://rally1.rallydev.com) is available. This might be useful if you want to always limit the chart to certain complex criteria.
